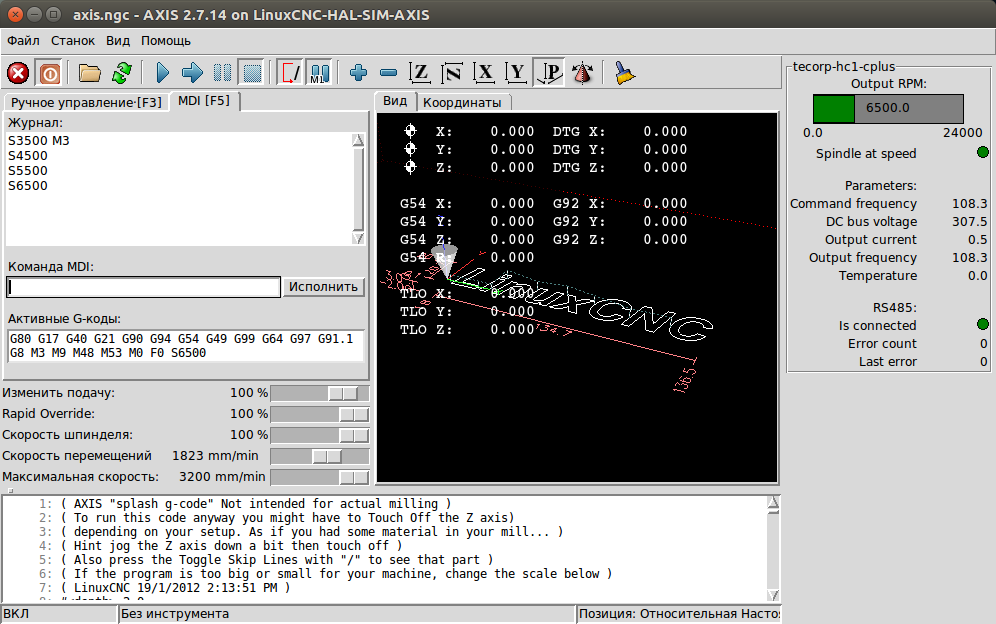
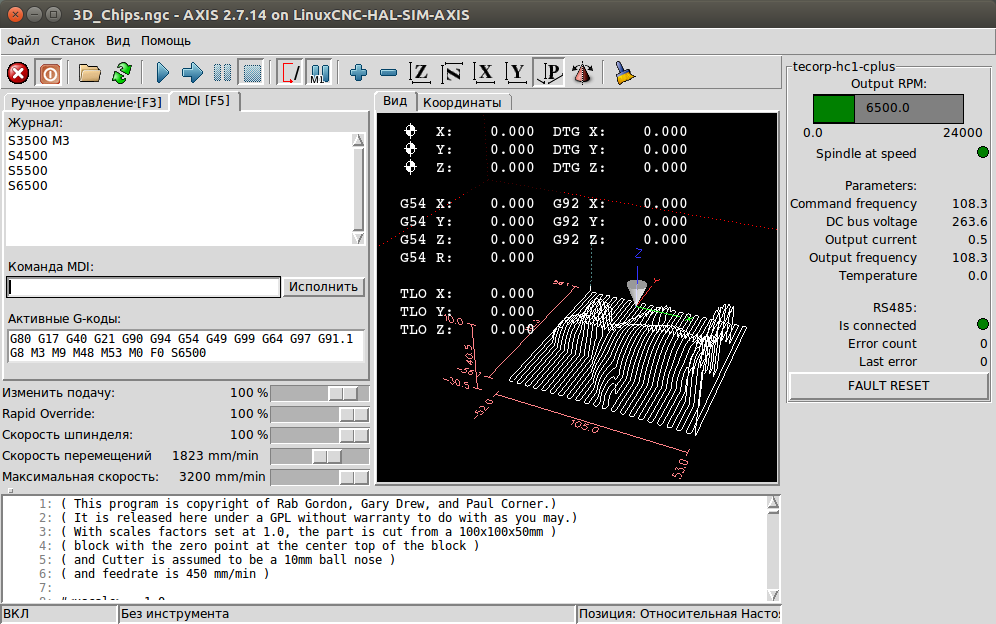
Updated

diff --git a/load-config.cpp b/load-config.cpp
@@ -248,6 +248,22 @@ int load_ctrl_group(QSettings &ini, control_config_t &control)
     if (checkFlag)
         printf("\n[%s]\n", qPrintable(GROUP_CONTROL));
 
+    /* Function code */
+    value = ini.value(key = KEY_FUNCTION_CODE, QString("%1").arg(MODBUS_FUNC_WRITE_SINGLE_HOLDING_REGISTER)).toString();
+    if (value.toLower().startsWith("0x"))
+        control.functionCode = hex_to_int(value, &ok);
+    else
+        control.functionCode = value.toInt(&ok);
+    if (!ok)
+        goto fail_invalid_parameter;
+
+    if ((control.functionCode != MODBUS_FUNC_WRITE_SINGLE_HOLDING_REGISTER)
+            && (control.functionCode != MODBUS_FUNC_WRITE_MULTIPLE_HOLDING_REGISTERS))
+        goto fail_out_of_range;
+
+    if (checkFlag)
+        printf("%s\t\t: 0x%02X (%d)\n", KEY_FUNCTION_CODE, control.functionCode, control.functionCode);
+
     /* Address */
     value = ini.value(key = KEY_ADDRESS, "").toString();
     if (value.toLower().startsWith("0x"))
@@ -259,9 +275,7 @@ int load_ctrl_group(QSettings &ini, control_config_t &control)
     if ((control.address < 0) || (control.address > 0xFFFF))
         goto fail_out_of_range;
     if (checkFlag)
-        printf("%s\t\t\t: %s (%d)\n", KEY_ADDRESS,
-               qPrintable(QString("0x%1").arg(control.address, 4, 16, QChar('0'))),
-               control.address);
+        printf("%s\t\t\t: 0x%04X (%d)\n", KEY_ADDRESS, control.address, control.address);
 
     /* Run forward value */
     value = ini.value(key = KEY_RUN_FWD, "").toString();
@@ -274,9 +288,7 @@ int load_ctrl_group(QSettings &ini, control_config_t &control)
     if ((control.runFwdValue < 0) || (control.runFwdValue > 0xFFFF))
         goto fail_out_of_range;
     if (checkFlag)
-        printf("%s\t\t: %s (%d)\n", KEY_RUN_FWD,
-               qPrintable(QString("0x%1").arg(control.runFwdValue, 4, 16, QChar('0'))),
-               control.runFwdValue);
+        printf("%s\t\t: 0x%04X (%d)\n", KEY_RUN_FWD, control.runFwdValue, control.runFwdValue);
 
     /* Run reverse value */
     value = ini.value(key = KEY_RUN_REV, "").toString();
@@ -289,9 +301,7 @@ int load_ctrl_group(QSettings &ini, control_config_t &control)
     if ((control.runRevValue < 0) || (control.runRevValue > 0xFFFF))
         goto fail_out_of_range;
     if (checkFlag)
-        printf("%s\t\t: %s (%d)\n", KEY_RUN_REV,
-               qPrintable(QString("0x%1").arg(control.runRevValue, 4, 16, QChar('0'))),
-               control.runRevValue);
+        printf("%s\t\t: 0x%04X (%d)\n", KEY_RUN_REV, control.runRevValue, control.runRevValue);
 
     /* Stop value */
     value = ini.value(key = KEY_STOP, "").toString();
@@ -304,9 +314,20 @@ int load_ctrl_group(QSettings &ini, control_config_t &control)
     if ((control.stopValue < 0) || (control.stopValue > 0xFFFF))
         goto fail_out_of_range;
     if (checkFlag)
-        printf("%s\t\t: %s (%d)\n", KEY_STOP,
-               qPrintable(QString("0x%1").arg(control.stopValue, 4, 16, QChar('0'))),
-               control.stopValue);
+        printf("%s\t\t: 0x%04X (%d)\n", KEY_STOP, control.stopValue, control.stopValue);
+
+    /* Fault reset value */
+    value = ini.value(key = KEY_FAULT_RESET, QString("%1").arg(control.stopValue)).toString();
+    if (value.toLower().startsWith("0x"))
+        control.faultResetValue = hex_to_int(value, &ok);
+    else
+        control.faultResetValue = value.toInt(&ok);
+    if (!ok)
+        goto fail_invalid_parameter;
+    if ((control.faultResetValue < 0) || (control.faultResetValue > 0xFFFF))
+        goto fail_out_of_range;
+    if (checkFlag)
+        printf("%s\t\t: 0x%04X (%d)\n", KEY_FAULT_RESET, control.faultResetValue, control.faultResetValue);
 
     ini.endGroup();
     return 0;
@@ -327,6 +348,22 @@ int load_rpm_in_group(QSettings &ini, spindle_in_config_t &spindle)
     if (checkFlag)
         printf("\n[%s]\n", qPrintable(GROUP_SPINDLE_IN));
 
+    /* Function code */
+    value = ini.value(key = KEY_FUNCTION_CODE, QString("%1").arg(MODBUS_FUNC_WRITE_SINGLE_HOLDING_REGISTER)).toString();
+    if (value.toLower().startsWith("0x"))
+        spindle.functionCode = hex_to_int(value, &ok);
+    else
+        spindle.functionCode = value.toInt(&ok);
+    if (!ok)
+        goto fail_invalid_parameter;
+
+    if ((spindle.functionCode != MODBUS_FUNC_WRITE_SINGLE_HOLDING_REGISTER)
+            && (spindle.functionCode != MODBUS_FUNC_WRITE_MULTIPLE_HOLDING_REGISTERS))
+        goto fail_out_of_range;
+
+    if (checkFlag)
+        printf("%s\t\t: 0x%02X (%d)\n", KEY_FUNCTION_CODE, spindle.functionCode, spindle.functionCode);
+
     /* Address */
     value = ini.value(key = KEY_ADDRESS, "").toString();
     if (value.toLower().startsWith("0x"))
@@ -338,9 +375,7 @@ int load_rpm_in_group(QSettings &ini, spindle_in_config_t &spindle)
     if ((spindle.address < 0) || (spindle.address > 0xFFFF))
         goto fail_out_of_range;
     if (checkFlag)
-        printf("%s\t\t\t: %s (%d)\n", KEY_ADDRESS,
-               qPrintable(QString("0x%1").arg(spindle.address, 4, 16, QChar('0'))),
-               spindle.address);
+        printf("%s\t\t\t: 0x%04X (%d)\n", KEY_ADDRESS, spindle.address, spindle.address);
 
     /* Multiplier */
     spindle.multiplier = ini.value(key = KEY_MULTIPLIER, VALUE_MULTIPLIER).toInt(&ok);
@@ -390,9 +425,7 @@ int load_rpm_out_group(QSettings &ini, spindle_out_config_t &spindle)
     if ((spindle.address < 0) || (spindle.address > 0xFFFF))
         goto fail_out_of_range;
     if (checkFlag)
-        printf("%s\t\t\t: %s (%d)\n", KEY_ADDRESS,
-               qPrintable(QString("0x%1").arg(spindle.address, 4, 16, QChar('0'))),
-               spindle.address);
+        printf("%s\t\t\t: 0x%04X (%d)\n", KEY_ADDRESS, spindle.address, spindle.address);
 
     /* Multiplier */
     spindle.multiplier = ini.value(key = KEY_MULTIPLIER, VALUE_MULTIPLIER).toInt(&ok);
@@ -446,9 +479,7 @@ int load_user_group(QSettings &ini, const QString &group, QVector<user_config_t>
     if ((usrcfg.address < 0) || (usrcfg.address > 0xFFFF))
         goto fail_out_of_range;
     if (checkFlag)
-        printf("%s\t\t\t: %s (%d)\n", KEY_ADDRESS,
-               qPrintable(QString("0x%1").arg(usrcfg.address, 4, 16, QChar('0'))),
-               usrcfg.address);
+        printf("%s\t\t\t: 0x%04X (%d)\n", KEY_ADDRESS, usrcfg.address, usrcfg.address);
 
     /* Multiplier */
     usrcfg.multiplier = ini.value(key = KEY_MULTIPLIER, VALUE_MULTIPLIER).toInt(&ok);

diff --git a/main.cpp b/main.cpp
@@ -149,9 +149,10 @@ fail:
 
 int write_registers(modbus_t *ctx, main_config_t &mconfig)
 {
+    int result = 0;
     uint16_t value;
 
-    /* Command speed */
+    /* Setting command speed */
     hal_float_t speed = abs(*hal_mdata->spindleRpmIn);
 
     if (speed < mconfig.common.minSpeedRpm)
@@ -162,17 +163,26 @@ int write_registers(modbus_t *ctx, main_config_t &mconfig)
 
     speed = speed * mconfig.rpmIn.multiplier / mconfig.rpmIn.divider;
 
+    value = int(speed);
     if (debugFlag)
-        printf("\n%s: setting command speed value to %d (0x%04X)...\n", qPrintable(exeName), int(speed), int(speed));
+        printf("\n%s: setting command speed value to %d (0x%04X)...\n", qPrintable(exeName), value, value);
 
     protocol_delay(mconfig.rs485);
-    //    if (1 != modbus_write_registers(ctx, mconfig.rpmIn.address, 1, &value))
-    if (1 != modbus_write_register(ctx, mconfig.rpmIn.address, int(speed)))
+
+    // Function code 0x06
+    if (mconfig.rpmIn.functionCode == MODBUS_FUNC_WRITE_SINGLE_HOLDING_REGISTER)
+        result = modbus_write_register(ctx, mconfig.rpmIn.address, value);
+
+    // Function code 0x10
+    if (mconfig.rpmIn.functionCode == MODBUS_FUNC_WRITE_MULTIPLE_HOLDING_REGISTERS)
+        result = modbus_write_registers(ctx, mconfig.rpmIn.address, 1, &value);
+
+    if (result != 1)
         goto fail;
     else
         okCounter++;
 
-    /* Control value */
+    /* Setting control word value */
     value = mconfig.control.stopValue;
 
     if (0 != *hal_mdata->runReverse)
@@ -181,15 +191,30 @@ int write_registers(modbus_t *ctx, main_config_t &mconfig)
     if (0 != *hal_mdata->runForward)
         value = mconfig.control.runFwdValue;
 
+    if (0 != *hal_mdata->faultReset)
+        value = mconfig.control.faultResetValue;
+
     if (debugFlag)
         printf("\n%s: setting control word value to %d (0x%04X)...\n", qPrintable(exeName), value, value);
 
     protocol_delay(mconfig.rs485);
-    //    if (1 != modbus_write_registers(ctx, mconfig.control.address, 1, &value))
-    if (1 != modbus_write_register(ctx, mconfig.control.address, value))
+
+    // Function code 0x06
+    if (mconfig.control.functionCode == MODBUS_FUNC_WRITE_SINGLE_HOLDING_REGISTER)
+        result = modbus_write_register(ctx, mconfig.control.address, value);
+
+    // Function code 0x10
+    if (mconfig.control.functionCode == MODBUS_FUNC_WRITE_MULTIPLE_HOLDING_REGISTERS)
+        result = modbus_write_registers(ctx, mconfig.control.address, 1, &value);
+
+    if (result != 1)
         goto fail;
     else
         okCounter++;
+
+    // If fault reset has been written successfully then inactive it's input
+    if (value == mconfig.control.faultResetValue)
+        *hal_mdata->faultReset = 0;
 
     return 0;
 fail:
@@ -345,15 +370,21 @@ int main(int argc, char *argv[])
                               HAL_PIN_AT_SPEED))
         goto fail;
 
+    if (0 != hal_pin_bit_newf(HAL_IN, &(hal_mdata->faultReset), hal_comp_id, "%s.%s.%s",
+                              qPrintable(mconfig.common.componentName),
+                              HAL_GROUP_CONTROL,
+                              HAL_PIN_FAULT_RESET))
+        goto fail;
+
     if (0 != hal_pin_bit_newf(HAL_IN, &(hal_mdata->runForward), hal_comp_id, "%s.%s.%s",
                               qPrintable(mconfig.common.componentName),
-                              HAL_GROUP_SPINDLE,
+                              HAL_GROUP_CONTROL,
                               HAL_PIN_RUN_FORWARD))
         goto fail;
 
     if (0 != hal_pin_bit_newf(HAL_IN, &(hal_mdata->runReverse), hal_comp_id, "%s.%s.%s",
                               qPrintable(mconfig.common.componentName),
-                              HAL_GROUP_SPINDLE,
+                              HAL_GROUP_CONTROL,
                               HAL_PIN_RUN_REVERSE))
         goto fail;
 

diff --git a/make-config.cpp b/make-config.cpp
@@ -99,9 +99,7 @@ void make_postgui_config(const main_config_t &mconfig, const QVector<user_config
            PYVCP,
            HAL_PIN_ERROR_COUNT);
 
-    printf("net %s-%s %s.%s.%s => %s.%s\n"
-           "\n"
-           "# User parameters\n",
+    printf("net %s-%s %s.%s.%s => %s.%s\n",
            PYVCP,
            HAL_PIN_LAST_ERROR,
            qPrintable(mconfig.common.componentName),
@@ -109,6 +107,20 @@ void make_postgui_config(const main_config_t &mconfig, const QVector<user_config
            HAL_PIN_LAST_ERROR,
            PYVCP,
            HAL_PIN_LAST_ERROR);
+
+    printf("\n"
+           "# Fault reset\n"
+           "net %s-%s %s.%s.%s <= %s.%s\n",
+           PYVCP,
+           HAL_PIN_FAULT_RESET,
+           qPrintable(mconfig.common.componentName),
+           HAL_GROUP_CONTROL,
+           HAL_PIN_FAULT_RESET,
+           PYVCP,
+           HAL_PIN_FAULT_RESET);
+
+    printf("\n"
+           "# User parameters\n");
 
     for (int i = 0; i < uconfig.size(); i++) {
         printf("net %s-%s %s.%s.%s => %s.%s\n",
@@ -172,7 +184,16 @@ void make_pyvcp_config(const QString &inifile, const main_config_t &mconfig, con
            HAL_PIN_LAST_ERROR);
 
     printf("    </table>\n"
-           "\n"
-           "</labelframe>\n"
+           "\n");
+
+    if (mconfig.control.faultResetValue != mconfig.control.stopValue)
+        printf("    <button>\n"
+               "        <halpin>\"%s\"</halpin>\n"
+               "        <text>\"FAULT RESET\"</text>\n"
+               "    </button>\n"
+               "\n",
+               HAL_PIN_FAULT_RESET);
+
+    printf("</labelframe>\n"
            "</pyvcp>\n");
 }

diff --git a/default-values.h b/default-values.h
@@ -40,6 +40,7 @@
 #define KEY_RUN_FWD                 "RunForwardValue"
 #define KEY_RUN_REV                 "RunReverseValue"
 #define KEY_STOP                    "StopValue"
+#define KEY_FAULT_RESET             "FaultResetValue"
 
 /* Spindle RPM-in group */
 #define GROUP_SPINDLE_IN            "SpindleRpmIn"
@@ -52,6 +53,7 @@
 #define KEY_PIN_NAME                "PinName"
 
 /* Common keys & values */
+#define KEY_FUNCTION_CODE           "FunctionCode"
 #define KEY_ADDRESS                 "Address"
 #define KEY_DIVIDER                 "Divider"
 #define KEY_MULTIPLIER              "Multiplier"
@@ -62,9 +64,11 @@
 #define HAL_GROUP_RS485             "rs485"
 #define HAL_GROUP_USER_PARAMETERS   "parameters"
 #define HAL_GROUP_SPINDLE           "spindle"
+#define HAL_GROUP_CONTROL           "control"
 #define HAL_PIN_AT_SPEED            "at-speed"
 #define HAL_PIN_RPM_IN              "rpm-in"
 #define HAL_PIN_RPM_OUT             "rpm-out"
+#define HAL_PIN_FAULT_RESET         "fault-reset"
 #define HAL_PIN_RUN_FORWARD         "run-forward"
 #define HAL_PIN_RUN_REVERSE         "run-reverse"
 #define HAL_PIN_IS_CONNECTED        "is-connected"

diff --git a/structures.h b/structures.h
@@ -7,6 +7,11 @@
 #include <hal.h>
 #include <QVector>
 
+#define MODBUS_FUNC_WRITE_SINGLE_COIL                   0x05
+#define MODBUS_FUNC_WRITE_MULTIPLE_COILS                0x0F
+#define MODBUS_FUNC_WRITE_SINGLE_HOLDING_REGISTER       0x06
+#define MODBUS_FUNC_WRITE_MULTIPLE_HOLDING_REGISTERS    0x10
+
 /*** INI STRUCTURES ***/
 
 /* Common settings */
@@ -41,14 +46,17 @@ typedef struct {
 
 /* Spindle control settings */
 typedef struct {
+    int functionCode;
     int address;
     int runFwdValue;
     int runRevValue;
     int stopValue;
+    int faultResetValue;
 } control_config_t;
 
 /* Spindle IN settings */
 typedef struct {
+    int functionCode;
     int address;
     int multiplier;
     int divider;
@@ -92,6 +100,7 @@ typedef struct {
     /* Spindle control pins */
     hal_bit_t   *runForward;
     hal_bit_t   *runReverse;
+    hal_bit_t   *faultReset;
     hal_bit_t   *atSpeed;
     hal_float_t *spindleRpmIn;
     hal_float_t *spindleRpmOut;
